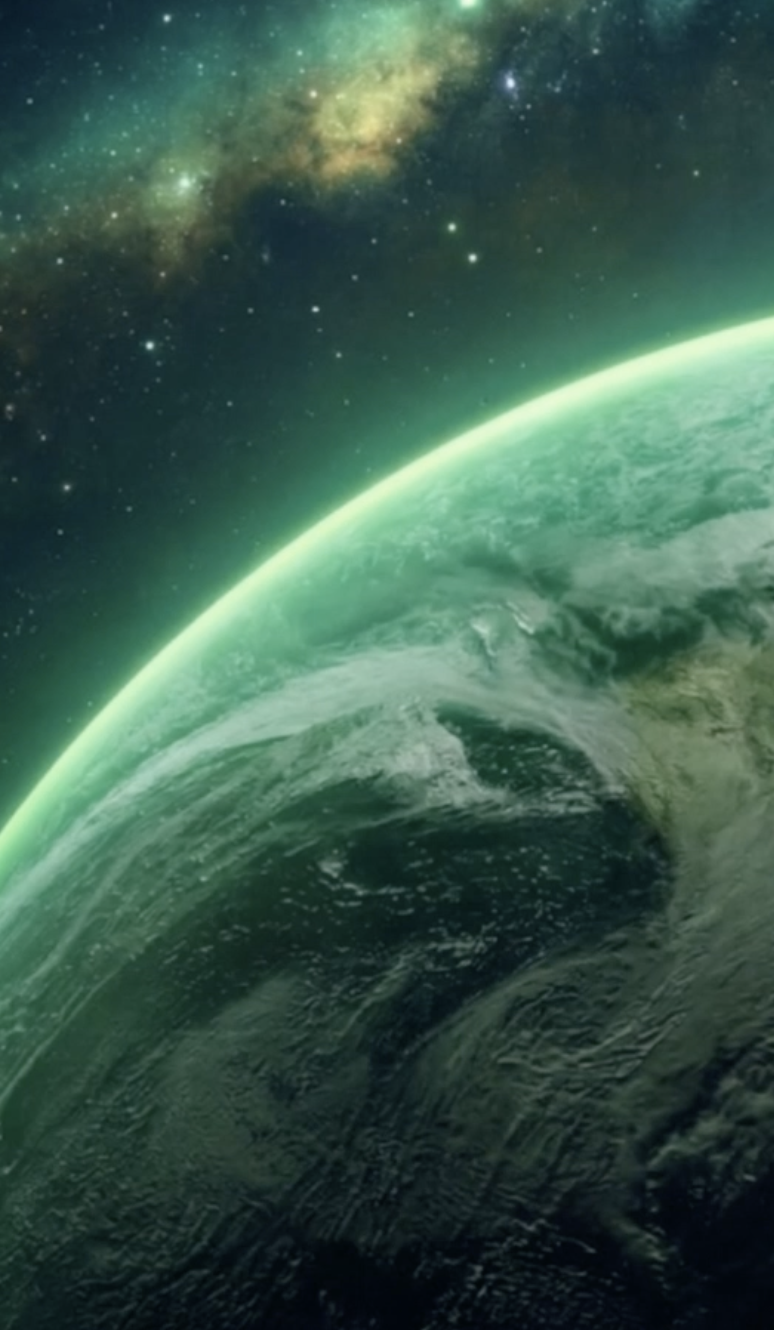
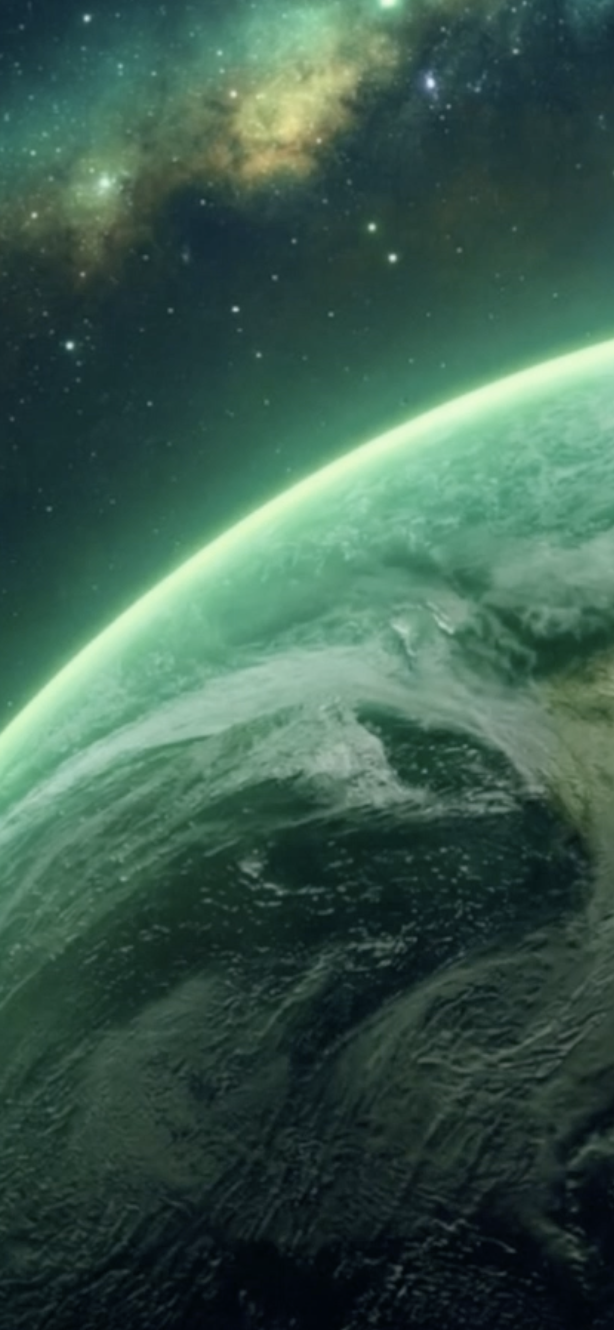
Initial commit

diff --git a/src/components/PageShell.tsx b/src/components/PageShell.tsx
@@ -32,6 +32,7 @@ export function PageShell({ children }: { children: ReactNode }) {
           width: "100%",
           height: "100%",
           objectFit: "cover",
+          objectPosition: "center top",
           zIndex: 0,
           transform: "translateZ(0)",
           WebkitBackfaceVisibility: "hidden",

diff --git a/src/routes/index.tsx b/src/routes/index.tsx
@@ -115,6 +115,7 @@ function Home() {
           width: "100%",
           height: "100%",
           objectFit: "cover",
+          objectPosition: "center top",
           zIndex: 0,
           transform: "translateZ(0)",
           WebkitBackfaceVisibility: "hidden",
